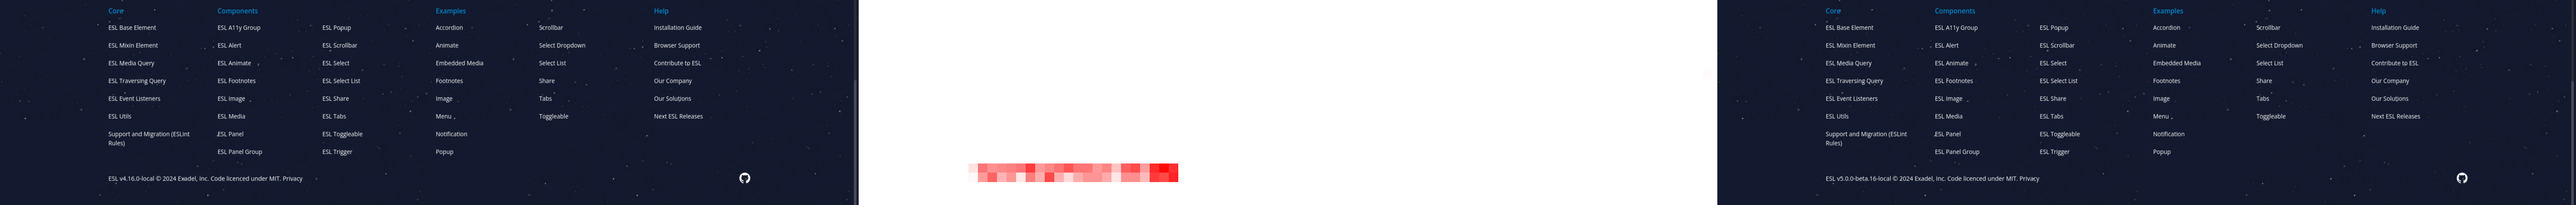
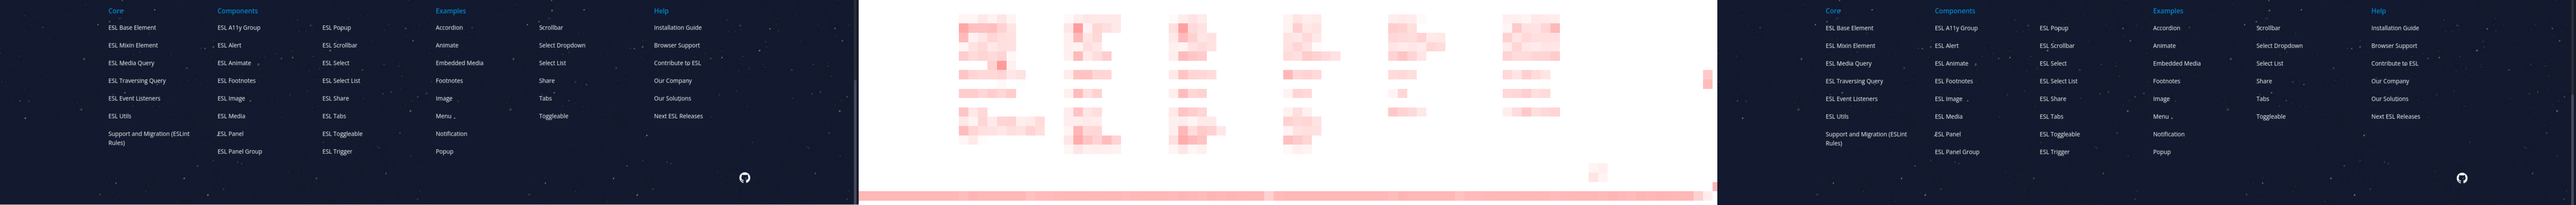
deploy: 05b0f49194dafff7f307d31274ea57aa6379684e

diff --git a/index.md b/index.md
@@ -3,31 +3,38 @@
   
 | :clock10: Start time | :hourglass: Duration |
 | --- | ---: |
-|5/14/2024, 6:01:52 PM|19.16s|
+|5/31/2024, 2:04:53 PM|20.38s|
 
 | | :white_check_mark: Passed | :x: Failed | :construction: Todo | :white_circle: Total |
 | --- | ---: | ---: | ---:| ---: |
-|Test Suites|1|1|-|2|
-|Tests|3|3|0|6|
+|Test Suites|2|1|-|3|
+|Tests|7|1|0|8|
 
 
 
   ---
   ## Tests Details
-  ### tests/test.feature
+  ### tests/homepage.copyright.test.ts
 <table>
 <tr><th>Test</th><th>Status</th><th>Time</th></tr>
-<tr><td>Feature: Test page looks fine:test page screen</td><td>:white_check_mark:</td><td>3.622s</td></tr>
+<tr><td>Homepage footer manual validation:Check if the footer copyright contains correct version</td><td>:white_check_mark:</td><td>35ms</td></tr>
+<tr><td>Homepage footer manual validation:Check if the footer coypright contains correct year</td><td>:white_check_mark:</td><td>3ms</td></tr>
+</table>
+
+### tests/test.feature
+<table>
+<tr><th>Test</th><th>Status</th><th>Time</th></tr>
+<tr><td>Feature: Test page looks fine:test page screen</td><td>:white_check_mark:</td><td>3.685s</td></tr>
 </table>
 
 ### tests/homepage.feature
 <table>
 <tr><th>Test</th><th>Status</th><th>Time</th></tr>
-<tr><td>Feature: Homepage looks fine:test homepage screen</td><td>:white_check_mark:</td><td>3.851s</td></tr>
-<tr><td>Feature: Homepage looks fine:test homepage screen on mobile</td><td>:x:</td><td>3.106s</td></tr>
-<tr><td colspan="3"><img src="https://github.com/exadel-inc/esl/blob/diff-report/homepage-feature-feature-homepage-looks-fine-test-homepage-screen-on-mobile-1-snap-diff.png?raw=true" alt="Test Diff homepage-feature-feature-homepage-looks-fine-test-homepage-screen-on-mobile-1-snap-diff.png"/></td></tr><tr><td>Feature: Homepage looks fine:test homepage hamburger menu on mobile</td><td>:white_check_mark:</td><td>3.506s</td></tr>
-<tr><td>Feature: Homepage looks fine:test homepage footer on desktop</td><td>:x:</td><td>2.821s</td></tr>
-<tr><td colspan="3"><img src="https://github.com/exadel-inc/esl/blob/diff-report/homepage-feature-feature-homepage-looks-fine-test-homepage-footer-on-desktop-1-snap-diff.png?raw=true" alt="Test Diff homepage-feature-feature-homepage-looks-fine-test-homepage-footer-on-desktop-1-snap-diff.png"/></td></tr><tr><td>Feature: Homepage looks fine:test homepage footer on mobile</td><td>:x:</td><td>2.392s</td></tr>
-<tr><td colspan="3"><img src="https://github.com/exadel-inc/esl/blob/diff-report/homepage-feature-feature-homepage-looks-fine-test-homepage-footer-on-mobile-1-snap-diff.png?raw=true" alt="Test Diff homepage-feature-feature-homepage-looks-fine-test-homepage-footer-on-mobile-1-snap-diff.png"/></td></tr></table>
+<tr><td>Feature: Homepage looks fine:test homepage screen</td><td>:white_check_mark:</td><td>3.926s</td></tr>
+<tr><td>Feature: Homepage looks fine:test homepage screen on mobile</td><td>:white_check_mark:</td><td>2.997s</td></tr>
+<tr><td>Feature: Homepage looks fine:test homepage hamburger menu on mobile</td><td>:white_check_mark:</td><td>3.479s</td></tr>
+<tr><td>Feature: Homepage looks fine:test homepage footer on desktop</td><td>:x:</td><td>2.817s</td></tr>
+<tr><td colspan="3"><img src="https://github.com/exadel-inc/esl/blob/diff-report/homepage-feature-feature-homepage-looks-fine-test-homepage-footer-on-desktop-1-snap-diff.png?raw=true" alt="Test Diff homepage-feature-feature-homepage-looks-fine-test-homepage-footer-on-desktop-1-snap-diff.png"/></td></tr><tr><td>Feature: Homepage looks fine:test homepage footer on mobile</td><td>:white_check_mark:</td><td>2.356s</td></tr>
+</table>
 
 

diff --git a/README.md b/README.md
@@ -3,31 +3,38 @@
   
 | :clock10: Start time | :hourglass: Duration |
 | --- | ---: |
-|5/14/2024, 6:01:52 PM|19.16s|
+|5/31/2024, 2:04:53 PM|20.38s|
 
 | | :white_check_mark: Passed | :x: Failed | :construction: Todo | :white_circle: Total |
 | --- | ---: | ---: | ---:| ---: |
-|Test Suites|1|1|-|2|
-|Tests|3|3|0|6|
+|Test Suites|2|1|-|3|
+|Tests|7|1|0|8|
 
 
 
   ---
   ## Tests Details
-  ### tests/test.feature
+  ### tests/homepage.copyright.test.ts
 <table>
 <tr><th>Test</th><th>Status</th><th>Time</th></tr>
-<tr><td>Feature: Test page looks fine:test page screen</td><td>:white_check_mark:</td><td>3.622s</td></tr>
+<tr><td>Homepage footer manual validation:Check if the footer copyright contains correct version</td><td>:white_check_mark:</td><td>35ms</td></tr>
+<tr><td>Homepage footer manual validation:Check if the footer coypright contains correct year</td><td>:white_check_mark:</td><td>3ms</td></tr>
+</table>
+
+### tests/test.feature
+<table>
+<tr><th>Test</th><th>Status</th><th>Time</th></tr>
+<tr><td>Feature: Test page looks fine:test page screen</td><td>:white_check_mark:</td><td>3.685s</td></tr>
 </table>
 
 ### tests/homepage.feature
 <table>
 <tr><th>Test</th><th>Status</th><th>Time</th></tr>
-<tr><td>Feature: Homepage looks fine:test homepage screen</td><td>:white_check_mark:</td><td>3.851s</td></tr>
-<tr><td>Feature: Homepage looks fine:test homepage screen on mobile</td><td>:x:</td><td>3.106s</td></tr>
-<tr><td colspan="3"><img src="homepage-feature-feature-homepage-looks-fine-test-homepage-screen-on-mobile-1-snap-diff.png" alt="Test Diff homepage-feature-feature-homepage-looks-fine-test-homepage-screen-on-mobile-1-snap-diff.png"/></td></tr><tr><td>Feature: Homepage looks fine:test homepage hamburger menu on mobile</td><td>:white_check_mark:</td><td>3.506s</td></tr>
-<tr><td>Feature: Homepage looks fine:test homepage footer on desktop</td><td>:x:</td><td>2.821s</td></tr>
-<tr><td colspan="3"><img src="homepage-feature-feature-homepage-looks-fine-test-homepage-footer-on-desktop-1-snap-diff.png" alt="Test Diff homepage-feature-feature-homepage-looks-fine-test-homepage-footer-on-desktop-1-snap-diff.png"/></td></tr><tr><td>Feature: Homepage looks fine:test homepage footer on mobile</td><td>:x:</td><td>2.392s</td></tr>
-<tr><td colspan="3"><img src="homepage-feature-feature-homepage-looks-fine-test-homepage-footer-on-mobile-1-snap-diff.png" alt="Test Diff homepage-feature-feature-homepage-looks-fine-test-homepage-footer-on-mobile-1-snap-diff.png"/></td></tr></table>
+<tr><td>Feature: Homepage looks fine:test homepage screen</td><td>:white_check_mark:</td><td>3.926s</td></tr>
+<tr><td>Feature: Homepage looks fine:test homepage screen on mobile</td><td>:white_check_mark:</td><td>2.997s</td></tr>
+<tr><td>Feature: Homepage looks fine:test homepage hamburger menu on mobile</td><td>:white_check_mark:</td><td>3.479s</td></tr>
+<tr><td>Feature: Homepage looks fine:test homepage footer on desktop</td><td>:x:</td><td>2.817s</td></tr>
+<tr><td colspan="3"><img src="homepage-feature-feature-homepage-looks-fine-test-homepage-footer-on-desktop-1-snap-diff.png" alt="Test Diff homepage-feature-feature-homepage-looks-fine-test-homepage-footer-on-desktop-1-snap-diff.png"/></td></tr><tr><td>Feature: Homepage looks fine:test homepage footer on mobile</td><td>:white_check_mark:</td><td>2.356s</td></tr>
+</table>
 
 
